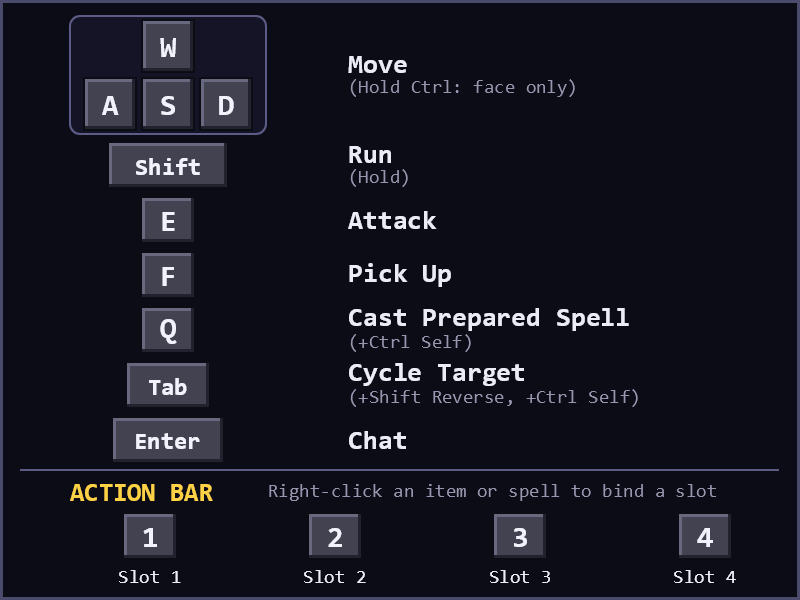
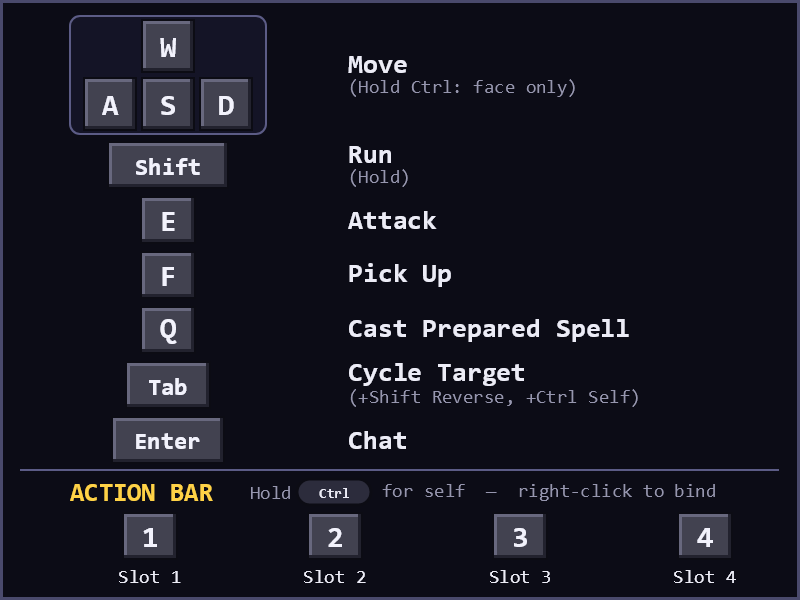
updated gamepad parity: gamepads can now self cast as easily as m+kb now

Changed region(s): [[0.4375, 0.51, 0.7812, 0.6], [0.3125, 0.78, 0.9062, 0.84]]

diff --git a/client/src/Mirage.Client.Shell/Screens/GameplayScreen.Update.cs b/client/src/Mirage.Client.Shell/Screens/GameplayScreen.Update.cs
@@ -252,9 +252,12 @@ public sealed partial class GameplayScreen : IGameScreen
             // a melee swing — and the action bar takes every OTHER spell type plus items. Neither can
             // reach into the other's half: the server refuses to prepare a non-SubHp spell or to bind a
             // SubHp one, so "which key casts this" is never ambiguous.
+            // EITHER trigger opens the bar; which one decides where it points. LT aims at the target, RT at
+            // the caster, so the same four face buttons serve both without a two-trigger grip. Holding both
+            // aims at the caster — see IsSelfTargetHeld — so aim can be switched without releasing first.
             bool hotkeyModifier = padActive && (input.IsGamePadLeftTriggerDown() || input.IsGamePadRightTriggerDown());
             if ((kbActive && input.IsKeyPressed(Keys.Q)) || (padActive && input.IsGamePadButtonPressed(Buttons.Y) && !hotkeyModifier))
-                _spells.TryCastPrepared(_ctx.State, _ctx.Sender, self: ctrl);
+                _spells.TryCastPrepared(_ctx.State, _ctx.Sender);
 
             // The whole row shares ONE cooldown on the same 1-second beat as attacking and casting, so
             // the bar can't be used to sidestep the pacing the rest of combat is built on. Only a press
@@ -340,7 +343,8 @@ public sealed partial class GameplayScreen : IGameScreen
             _pickUpLatched = true;
         }
 
-        // Same latch for the attack press. A held trigger reserves X for the potion hotkeys, so it isn't an attack.
+        // Same latch for the attack press. EITHER trigger reserves X — left because it is the bar's own
+        // modifier, right because a self-aimed swing is not a thing and should do nothing rather than attack.
         if (worldActionInput &&
             ((kbActive && input.IsKeyPressed(Keys.E)) ||
              (padActive && input.IsGamePadButtonPressed(Buttons.X)

diff --git a/client/src/Mirage.Client.Shell/Panels/SpellPanel.cs b/client/src/Mirage.Client.Shell/Panels/SpellPanel.cs
@@ -160,9 +160,8 @@ public sealed class SpellPanel : IGamePanel
         {
             if (Environment.TickCount64 - me.AttackTimer < 1000L)
                 return;
-            // Ctrl+click casts on the caster (self), mirroring Ctrl+Q.
-            bool self = input.IsKeyDown(Keys.LeftControl) || input.IsKeyDown(Keys.RightControl);
-            AttemptCast(sender, _list.SelectedIndex + 1, self);
+            // Ctrl+click casts on the caster, mirroring Ctrl+Q.
+            AttemptCast(sender, _list.SelectedIndex + 1, input.IsSelfTargetHeld());
         }
     }
 
@@ -188,12 +187,15 @@ public sealed class SpellPanel : IGamePanel
 
     /// <summary>Cast the prepared spell via Q key. Silently does nothing if no spell is prepared.
     /// <paramref name="self"/> is set when Ctrl is held (Ctrl+Cast) to target the caster.</summary>
-    public void TryCastPrepared(ClientState state, ClientPacketSender sender, bool self)
+    /// <summary>Cast the prepared spell at the current target. NEVER at the caster: the prepared slot only
+    /// ever holds a SubHp spell — the server refuses to prepare anything else — so aiming it inward is
+    /// asking to be damaged. Self-casting belongs to the action bar and the book, which hold the rest.</summary>
+    public void TryCastPrepared(ClientState state, ClientPacketSender sender)
     {
         if (_preparedSlot <= 0) return;
         if (state.Me is not { } me) return;
         if (Environment.TickCount64 - me.AttackTimer < 1000L) return;
-        AttemptCast(sender, _preparedSlot, self);
+        AttemptCast(sender, _preparedSlot);
     }
 
     // AttackTimer is only stamped when the server confirms a cast via PlayerCastPacket, so

diff --git a/client/src/Mirage.Client.Shell/Input/InputState.cs b/client/src/Mirage.Client.Shell/Input/InputState.cs
@@ -250,6 +250,19 @@ public sealed class InputState
         UseGamepad && _currPad.IsConnected && _currPad.Triggers.Left >= GamepadTriggerDeadzone;
     public bool IsGamePadRightTriggerDown() =>
         UseGamepad && _currPad.IsConnected && _currPad.Triggers.Right >= GamepadTriggerDeadzone;
+
+    /// <summary>The self-target modifier: Ctrl on the keyboard, RIGHT TRIGGER on a gamepad. HELD rather
+    /// than pressed, because it qualifies the action that follows it the way Ctrl does.
+    ///
+    /// <para>Both triggers open the action bar and the choice of trigger aims it: LT+face fires a slot at
+    /// the target, RT+face fires the same slot at the caster. Only the bar and the spell book offer this —
+    /// the prepared slot is SubHp and has nothing to gain by pointing inward.</para>
+    ///
+    /// <para>RT WINS WHEN BOTH ARE HELD, which is why this asks about the right trigger alone and never
+    /// about the left. Switching aim mid-fight is then a matter of pressing the other trigger rather than
+    /// releasing one first, and a grip that rolls across both never fires at the wrong thing.</para></summary>
+    public bool IsSelfTargetHeld() =>
+        IsKeyDown(Keys.LeftControl) || IsKeyDown(Keys.RightControl) || IsGamePadRightTriggerDown();
     public bool IsGamePadConnected => UseGamepad && _currPad.IsConnected;
     public bool IsGamePadButtonDown(Buttons button) => UseGamepad && _currPad.IsConnected && _currPad.IsButtonDown(button);
     public bool IsGamePadButtonPressed(Buttons button) =>

diff --git a/client/src/Mirage.Client.Shell/Screens/GameplayScreen.Bubbles.cs b/client/src/Mirage.Client.Shell/Screens/GameplayScreen.Bubbles.cs
@@ -273,9 +273,7 @@ public sealed partial class GameplayScreen : IGameScreen
             AddChatLine(ClientStrings.Format(ClientStrings.HotkeyBar_SpellGone, ("Spell", name)), GameColor.BrightRed);
             return false;
         }
-        // Ctrl casts on yourself, matching the legacy self-cast modifier.
-        bool self = _lastInput.IsKeyDown(Keys.LeftControl) || _lastInput.IsKeyDown(Keys.RightControl);
-        _ctx.Sender.SendCast(book, self);
+        _ctx.Sender.SendCast(book, _lastInput.IsSelfTargetHeld());
         return true;
     }
 
